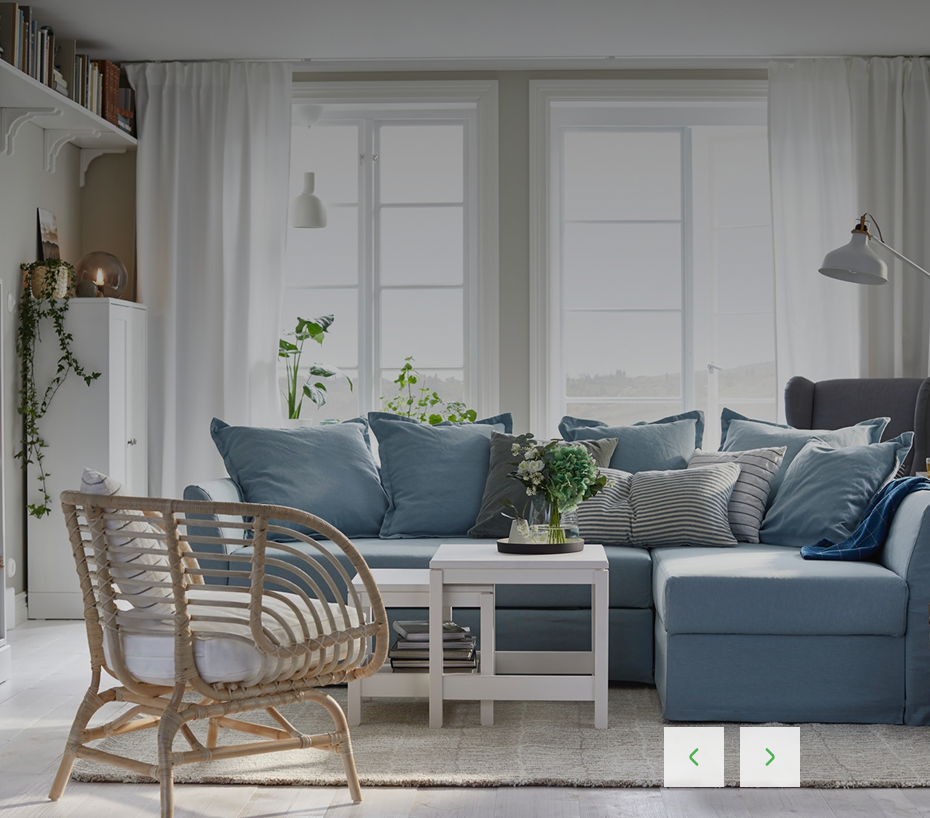
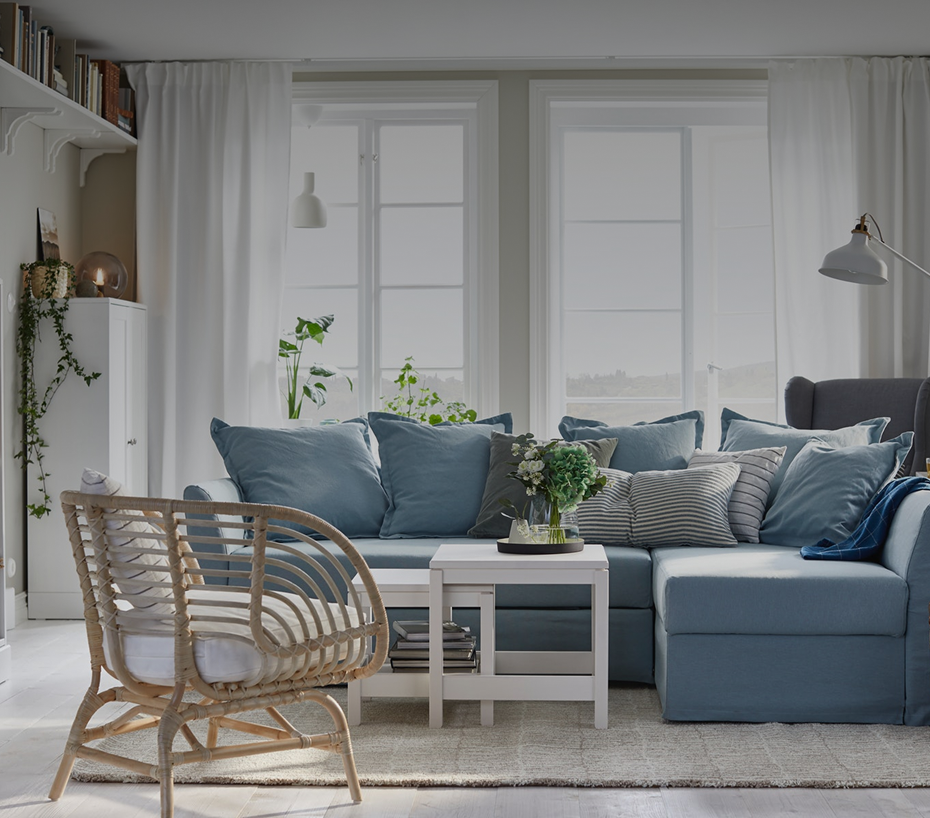
nav & home

Changed region(s): [[0.686, 0.8863, 0.8731, 0.978]]

diff --git a/src/main.css b/src/main.css
@@ -1,0 +1,111 @@
+* {
+    margin: 0;
+    padding: 0;
+    box-sizing: border-box;
+    /* content-box */
+}
+
+.container {
+    width: 1440px;
+    margin: 0 auto;
+}
+
+nav {
+    padding: 50px 110px 0 118px;
+    position: fixed;
+    top: 0;
+    left: 50%;
+    transform: translateX(-50%);
+    width: fit-content;
+    z-index: 10;
+}
+
+nav ul {
+    display: flex;
+    justify-content: space-between;
+    align-items: center;
+    gap: 74px;
+}
+
+nav ul li {
+    list-style: none;
+}
+
+nav ul li a {
+    text-decoration: none;
+    font-family: 'Roboto', sans-serif;
+    font-size: 18px;
+    color: #EBEBEB;
+    font-weight: 600;
+}
+
+.btn-nav {
+    padding: 17px 32px 19px 35px;
+    background-color: #4CAF50;
+    color: #ffffff;
+    min-width: 180px;
+    display: inline-block;
+}
+
+.btn-primary {
+    padding: 17px 32px 19px 35px;
+    background-color: #4CAF50;
+    color: #ffffff;
+    font-family: 'Roboto', sans-serif;
+    font-size: 18px;
+    font-weight: 600;
+    text-decoration: none;
+}
+
+.home {
+    padding: 206px 0 0 123px;
+    background-color: #465564;
+    background-image: url('../public/homeBg.png');
+    min-height: 818px;
+    background-repeat: no-repeat;
+    background-position: right 0 top 0;
+    position: relative;
+}
+
+.home p:nth-of-type(1) {
+    color: #FEFEFF;
+    font-family: "Work sans", sans-serif;
+    font-size: 20px;
+    line-height: 32px;
+    font-weight: 500;
+    margin-bottom: 27px;
+    display: flex;
+    align-items: center;
+    gap: 30px;
+}
+
+.home h1 {
+    font-family: 'Roboto', sans-serif;
+    font-size: 88px;
+    color: #ffffff;
+}
+
+.home h1 span {
+    color: #4CAF50;
+}
+
+.home p:nth-of-type(2) {
+    font-size: 14px;
+    font-family: 'Work Sans', sans-serif;
+    line-height: 22px;
+    max-width: 369px;
+    color: #EBEBEB;
+    margin-bottom: 36px;
+}
+
+.home-controls {
+    display: flex;
+    gap: 16px;
+    position: absolute;
+    right: 130px;
+    bottom: 32px;
+}
+
+.home-controls span {
+    cursor: pointer;
+}

diff --git a/src/Navbar.jsx b/src/Navbar.jsx
@@ -1,23 +1,25 @@
 import { Link } from 'react-router-dom'
+import Bag from '../public/bag.png'
+import Logo from '../public/FURNITURE.png'
 
 export default function Navbar() {
 
     return (
-        <>
+        <nav className='container'>
             <ul>
                 <li>
-                    <Link to='/'>Logo new</Link>
+                    <Link to='/'><img src={Logo} alt="" /></Link>
                 </li>
                 <li>
                     <ul>
                         <li><Link to='/'>Home</Link></li>
                         <li><Link to='/aboutus'>About Us</Link></li>
                         <li><Link to='/products'>Products</Link></li>
-                        <li><Link to='/contacts'>Contacts</Link></li>
-                        <li><Link to='/contacts'>Contacts</Link></li>
+                        <li><Link to='/products'><img src={Bag} alt="" /></Link></li>
+                        <li><Link className='btn-nav' to='/contacts'>Contact Us</Link></li>
                     </ul>
                 </li>
             </ul>
-        </>
+        </nav>
     )
 }

diff --git a/src/App.jsx b/src/App.jsx
@@ -1,7 +1,24 @@
+import {Link} from 'react-router-dom'
+import Left from '../public/<.png'
+import Right from '../public/>.png'
+import Line from '../public/Line.png'
+
 
 export default function App() {
 
   return (
-    <h1>Furniture home page</h1>
+    <header className="home container">
+      <p>WE ARE <img src={Line} alt="" /></p>
+      <h1>
+        <span>Modern</span> Furniture <br /> Center
+      </h1>
+      <p>We help you to create organize your room to be more cozy, design by professional interior designer</p>
+      <Link className='btn-primary' to='/products'>See Our Product</Link>
+
+      <div className='home-controls'>
+        <span><img src={Left} alt="" /></span>
+        <span><img src={Right} alt="" /></span>
+      </div>
+    </header>
   )
 }

diff --git a/index.html b/index.html
@@ -4,6 +4,9 @@
     <meta charset="UTF-8" />
     <link rel="icon" type="image/svg+xml" href="/vite.svg" />
     <meta name="viewport" content="width=device-width, initial-scale=1.0" />
+    <link rel="preconnect" href="https://fonts.googleapis.com">
+    <link rel="preconnect" href="https://fonts.gstatic.com" crossorigin>
+    <link href="https://fonts.googleapis.com/css2?family=Roboto:ital,wght@0,100..900;1,100..900&family=Work+Sans:ital,wght@0,100..900;1,100..900&display=swap" rel="stylesheet">  
     <title>work-with-api</title>
   </head>
   <body>
